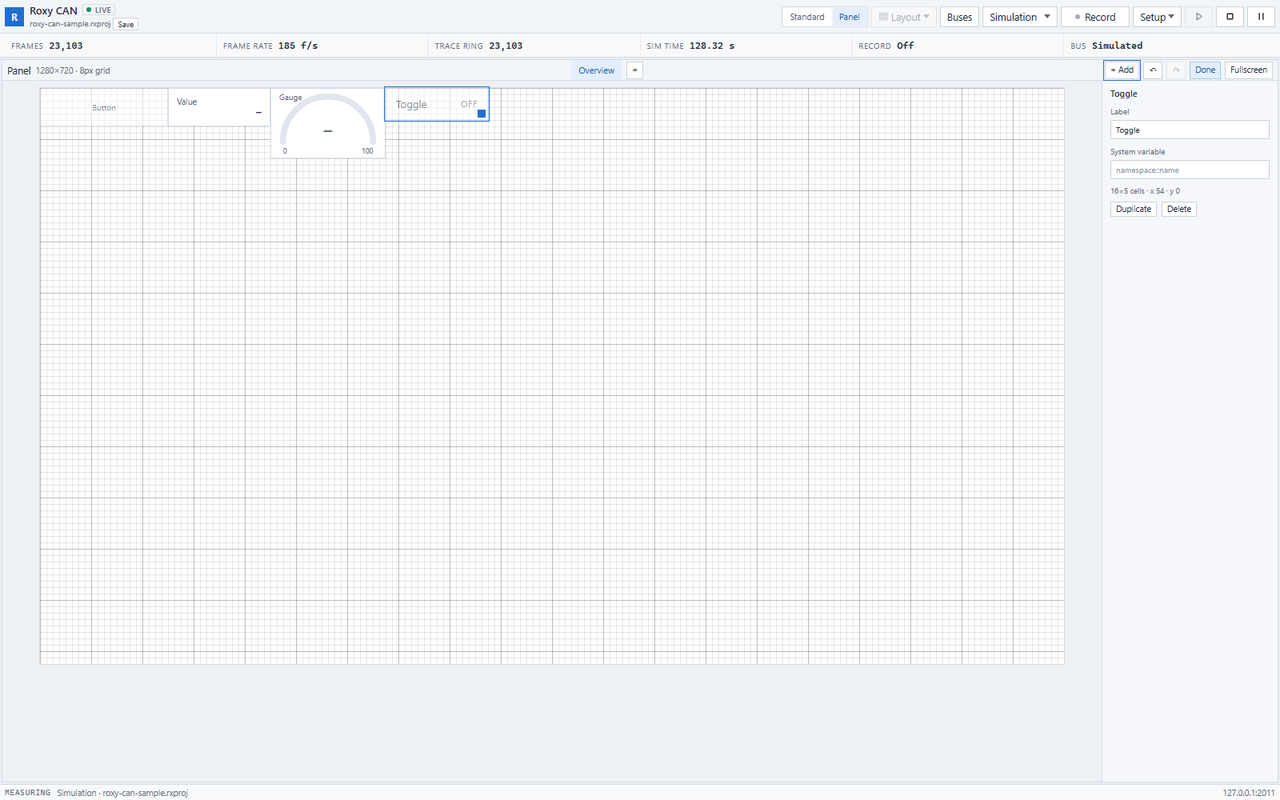
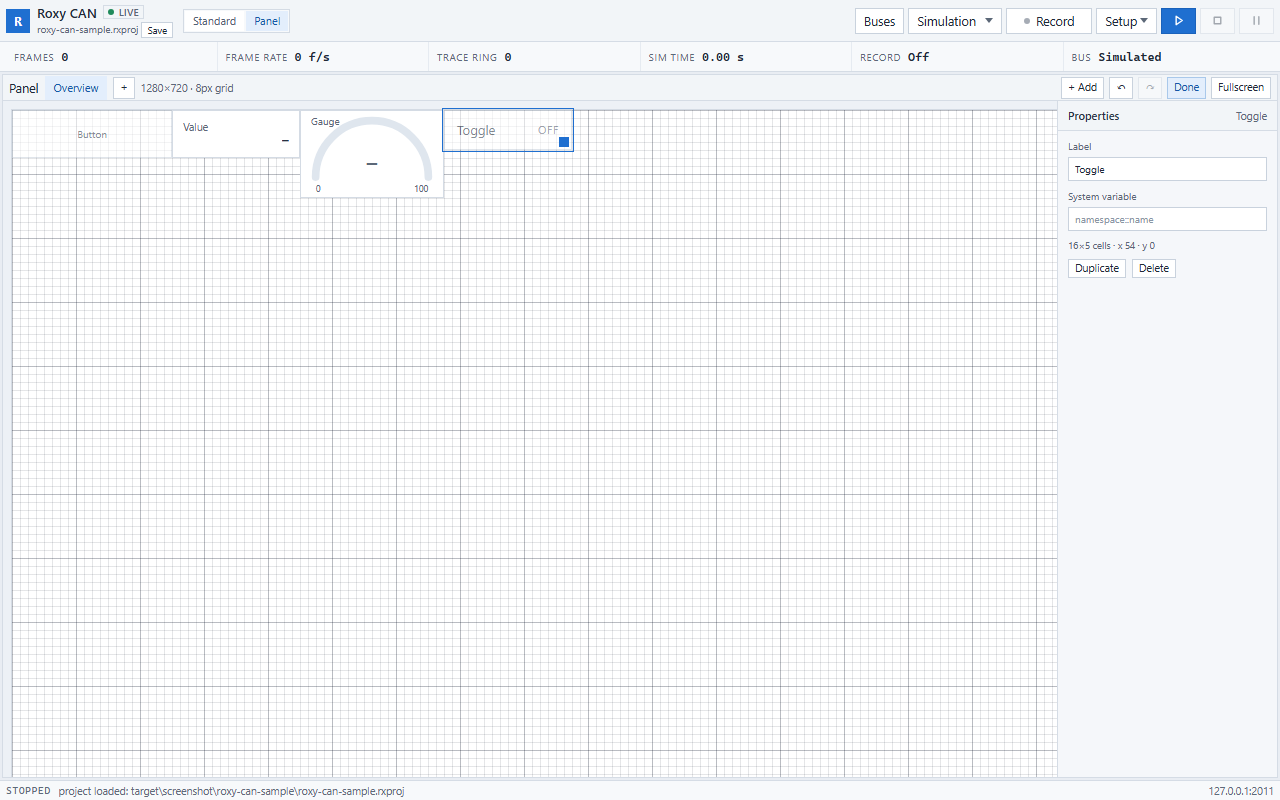
Align Panel chrome with Standard and anchor the mode switch

Changed region(s): [[0.0, 0.0, 1.0, 0.8438], [0.0, 0.9688, 0.3438, 1.0], [0.875, 0.9688, 1.0, 1.0]]

diff --git a/web/src/app.tsx b/web/src/app.tsx
@@ -4676,46 +4676,42 @@ export function App() {
             </div>
           </div>
         </div>
-        <div class="actions">
-          <div class="view-switch" role="group" aria-label="Workspace">
-            <button
-              type="button"
-              class={shellMode !== "panel" ? "on" : ""}
-              onClick={showStandard}
-            >
-              Standard
-            </button>
-            <button
-              type="button"
-              class={shellMode === "panel" ? "on" : ""}
-              onClick={showPanelPage}
-            >
-              Panel
-            </button>
-          </div>
-          <MenuButton
-            className="top-menu layout-menu"
-            menuClass="app-menu-top layout-panel"
-            menuLabel="Layout"
-            disabled={shellMode === "panel"}
-            title={
-              shellMode === "panel"
-                ? "Switch to Standard to change the page layout"
-                : "Choose a page layout; each page then picks its own panel"
-            }
-            ariaLabel="Layout"
-            label={
-              <>
-                <span class="layout-glyph" aria-hidden="true">
-                  ▦
-                </span>
-                <span class="layout-menu-label">Layout</span>
-                <span class="top-menu-caret" aria-hidden="true">
-                  ▾
-                </span>
-              </>
-            }
+        <div class="view-switch" role="group" aria-label="Workspace">
+          <button
+            type="button"
+            class={shellMode !== "panel" ? "on" : ""}
+            onClick={showStandard}
           >
+            Standard
+          </button>
+          <button
+            type="button"
+            class={shellMode === "panel" ? "on" : ""}
+            onClick={showPanelPage}
+          >
+            Panel
+          </button>
+        </div>
+        <div class="actions">
+          {shellMode !== "panel" && (
+            <MenuButton
+              className="top-menu layout-menu"
+              menuClass="app-menu-top layout-panel"
+              menuLabel="Layout"
+              title="Choose a page layout; each page then picks its own panel"
+              ariaLabel="Layout"
+              label={
+                <>
+                  <span class="layout-glyph" aria-hidden="true">
+                    ▦
+                  </span>
+                  <span class="layout-menu-label">Layout</span>
+                  <span class="top-menu-caret" aria-hidden="true">
+                    ▾
+                  </span>
+                </>
+              }
+            >
             {(close) => (
               <>
                 <div class="app-menu-group">Presets</div>
@@ -4769,6 +4765,7 @@ export function App() {
               </>
             )}
           </MenuButton>
+          )}
           <button
             type="button"
             class="buses-button"

diff --git a/web/src/components/PagePanel.tsx b/web/src/components/PagePanel.tsx
@@ -2510,9 +2510,6 @@ export function PagePanel({
       />
       <div class={`panel-head ${editing ? "editing" : ""}`}>
         <div class="panel-title">Panel</div>
-        <span class="meta">
-          {page.width * PAGE_GRID}×{page.height * PAGE_GRID} · {PAGE_GRID}px grid
-        </span>
         <div class="page-tabs">
           <div
             class="page-tab-list"
@@ -2598,6 +2595,9 @@ export function PagePanel({
             </div>
           )}
         </div>
+        <span class="meta">
+          {page.width * PAGE_GRID}×{page.height * PAGE_GRID} · {PAGE_GRID}px grid
+        </span>
         <div class="panel-tools">
           {editing && (
             <>
@@ -2792,11 +2792,17 @@ export function PagePanel({
         </div>
         {editing && (
           <aside class="page-inspector">
+            <div class="page-inspector-head">
+              <span class="page-inspector-title">Properties</span>
+              <span class="meta">
+                {selectedWidget
+                  ? panelWidgetSpec(selectedWidget.kind).label
+                  : "Panel"}
+              </span>
+            </div>
+            <div class="page-inspector-body">
             {selectedWidget ? (
               <>
-                <div class="page-inspector-title">
-                  {panelWidgetSpec(selectedWidget.kind).label}
-                </div>
             {panelWidgetSpec(selectedWidget.kind).fields.map((spec) =>
               inspectorField(selectedWidget, spec.key),
             )}
@@ -2820,7 +2826,6 @@ export function PagePanel({
               </>
             ) : (
               <>
-                <div class="page-inspector-title">Panel</div>
                 <label>
                   Width (px)
                   <input
@@ -2879,6 +2884,7 @@ export function PagePanel({
                 </div>
               </>
             )}
+            </div>
           </aside>
         )}
       </div>

diff --git a/web/src/styles.css b/web/src/styles.css
@@ -145,7 +145,9 @@ select:disabled {
   align-items: center;
   gap: 9px;
   min-width: 0;
-  flex: 1 1 auto;
+  /* Content-sized: the Standard/Panel switch sits immediately after the
+     brand, so it must not move when the right toolbar changes width. */
+  flex: 0 1 auto;
   /* The logo menu hangs below this row; clipping it here cut off every item
      below the first. Text clipping lives on .brand-text / .brand-project. */
   overflow: visible;
@@ -364,6 +366,7 @@ select:disabled {
 
 .view-switch {
   display: flex;
+  flex: 0 0 auto;
   gap: 2px;
   padding: 2px;
   border: 1px solid var(--line);
@@ -1395,9 +1398,9 @@ body.col-resizing {
 
 .page-tabs {
   display: flex;
-  flex: 1 1 auto;
+  flex: 0 1 auto;
   align-items: center;
-  justify-content: center;
+  justify-content: flex-start;
   gap: 6px;
   min-width: 0;
   overflow: hidden;
@@ -2062,11 +2065,32 @@ body.col-resizing {
   display: flex;
   flex: 0 0 220px;
   flex-direction: column;
+  gap: 0;
+  padding: 0;
+  overflow: hidden;
+  border-left: 1px solid var(--line);
+  background: var(--panel);
+}
+
+.page-inspector-head {
+  display: flex;
+  flex: 0 0 30px;
+  align-items: center;
+  justify-content: space-between;
   gap: 8px;
+  padding: 0 10px;
+  background: var(--head);
+  border-bottom: 1px solid var(--line);
+}
+
+.page-inspector-body {
+  display: flex;
+  flex: 1 1 auto;
+  flex-direction: column;
+  gap: 8px;
+  min-height: 0;
   padding: 8px 10px;
   overflow: auto;
-  border-left: 1px solid var(--line);
-  background: var(--head);
 }
 
 .page-inspector-title {
